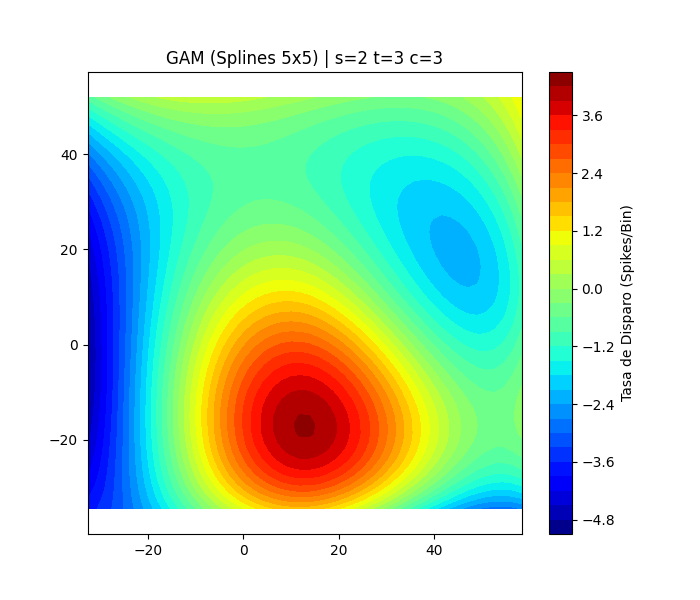
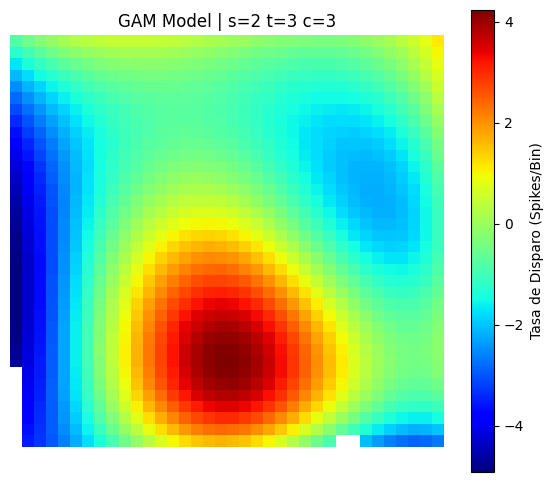
updating README

diff --git a/README.md b/README.md
@@ -1,4 +1,10 @@
-### Análisis Espacial (`firing_map`)
+# Degus análisis espacial
+
+Pipeline de análisis de place cells hipocampales en *Octodon degus*. El notebook `playground.ipynb` ejecuta las secciones en el siguiente orden:
+
+---
+
+## 1. Firing Map (`firing_map` / `rate_map`)
 Dentro de los scripts herramientas (`utils.py`), el método principal es `firing_map(sesion, tetrodo, neurona)`. Este método nos permite visualizar la actividad de una neurona individual durante una sesión en el Open Field (OF). 
 
 El método realiza lo siguiente:
@@ -7,32 +13,33 @@ El método realiza lo siguiente:
 - Aplica un **filtro de velocidad** (por defecto > 2 cm/s) para omitir los disparos que ocurren cuando el animal está quieto.
 
 Esta es nuestra **place cell** candidata (sesión 2, tetrodo 3, célula 3) 
-![Figura 1](figures/Figure_1.png)
+![Figura 1](figures/ratemap.png)
 
-### Modelado: GLM y GAM (`glm_analysis.py`)
-Para evaluar la codificación espacial de la neurona, utilizamos Modelos Lineales Generalizados (GLM) y Modelos Aditivos Generalizados (GAM) asumiendo una distribución de Poisson para los spikes.
+---
 
-#### GLM Manual (Figura 3)
-Ajustamos el modelo de manera manual dividiendo el espacio mediante una grilla de funciones base independientes.
+## 2. GLM Posición (`glm_posicion_manual`)
+Ajustamos un Modelo Lineal Generalizado (GLM) de manera manual dividiendo el espacio mediante una grilla de funciones base independientes, asumiendo una distribución de Poisson para los spikes.
 
 El espacio se fracciona en cuadraditos, y el modelo ajusta el peso de cada región por separado. El algoritmo cuenta con regularización (ridge) para que los bines que el animal nunca pisó no "exploten".
-![Figura 3](figures/Figure_3.png)
+![Figura 3](figures/glm.png)
 
-#### GAM Automático con Splines (GAM 1 y GAM 2)
-En otro acercamiento, implementamos un GAM utilizando **Splines** que encuentra la penalización óptima mediante cross validation.
+---
 
-- **GAM 1**: Serie temporal ("Predicción vs Realidad"). En negro se ven las barras que representan los disparos (spikes) discretos reales que disparó la neurona. La línea roja continua superpuesta es lo que el modelo GAM predice que debería haber disparado basándose exclusivamente en la posición exacta del degú en ese momento.
-![GAM 1](figures/GAM1.png)
+## 3. GAM Espacial — Place Cells (`get_gam_posicion` / `graficar_gam_posicion`)
+Modela la respuesta de la neurona puramente a la posición (X, Y) usando **Splines**. El GAM encuentra la penalización óptima mediante cross validation.
 
-- **GAM 2**: Es el place field predictivo del GAM. El place field se expresa en este caso como un gradiente suave y continuo, reflejando de manera más natural la probabilidad espacial de la célula (comparar con modelos lineales).
-![GAM 2](figures/GAM2.png)
+- **Serie temporal ("Predicción vs Realidad")**: En negro se ven las barras que representan los disparos (spikes) discretos reales que disparó la neurona. La línea roja continua superpuesta es lo que el modelo GAM predice que debería haber disparado basándose exclusivamente en la posición exacta del degú en ese momento.
+![GAM 1](figures/gam1.png)
 
-#### Fundamentos del Modelado
+- **Place field predictivo**: El place field se expresa como un gradiente suave y continuo, reflejando de manera más natural la probabilidad espacial de la célula (comparar con modelos lineales).
+![GAM 2](figures/gam2.png)
+
+### Fundamentos del Modelado
 - **Bineado Temporal ($Y$)**: Dado que la cámara y los electrodos miden datos de distinta naturaleza, discretizamos el tiempo en vetanas. Esto nos permite construir el vector de spikes por ventana alineado con la trayectoria, generando las filas de entrenamiento necesarias para el Poisson GAM.
 - **Validación Cruzada (Gridsearch)**: El GAM utiliza una penalidad ($\lambda$) que se calibra automáticamente. Si se le otorgan muchas funciones base (splines), el *gridsearch* aumenta esta penalidad para aplastarlas, garantizando que la superficie final sea estadísticamente suave e indicando la complejidad real de los datos a través de los Grados de Libertad Efectivos (EDoF).
 - **Overfit (Límite de Splines)**: Aunque la validación cruzada previene picos de ruido, es "ciega" al comportamiento animal. Si otorgamos demasiados splines (ej. 20x20), el modelo se sobreajustará *al recorrido exacto* del degú en lugar de a la codificación abstracta del hipocampo. Por eso restringimos el tope de complejidad (ej. `splines=5` o `6`) forzando al modelo a revelar únicamente los verdaderos place fields.
 
-#### Métricas del GAM (Ejemplo: Célula candidata con 5x5 splines)
+### Métricas del GAM (Ejemplo: Célula candidata con 5x5 splines)
 Al entrenar el modelo, la librería nos devuelve un resumen estadístico. Para la neurona analizada (Sesión 2, Tetrodo 3, Neurona 3), los valores clave para validar su función espacial son:
 
 - **Rank (25)**: Es el número máximo de funciones base que le permitimos usar al modelo ($5 \times 5 = 25$).
@@ -41,3 +48,9 @@ Al entrenar el modelo, la librería nos devuelve un resumen estadístico. Para l
 - **AIC (4814.3)**: Criterio de Información. Útil para comparar modelos relativos a los mismos datos. Modelos sobreajustados (ej. 20x20 splines) pueden dar un AIC menor al memorizar las pisadas del degú; aceptamos este valor como el "costo" necesario para obtener una representación biológicamente representativa.
 - Ejemplo:
 ![GAM 2_20spl](figures/gam2_20splines.png)
+
+---
+
+## 4. GAM Viewpoint — Mirada / Paredes (`get_gam_viewpoint_1d` / `graficar_gam_viewpoint_1d`)
+Desenrolla la caja del Open Field y calcula la respuesta de la neurona hacia la mirada (viewpoint) del animal usando **GAMs 1D**. Se busca ver si la neurona también responde a la dirección de la mirada o al ángulo de visión hacia las paredes del entorno.
+![GAM 2_20spl](figures/gamviewpoint.png)